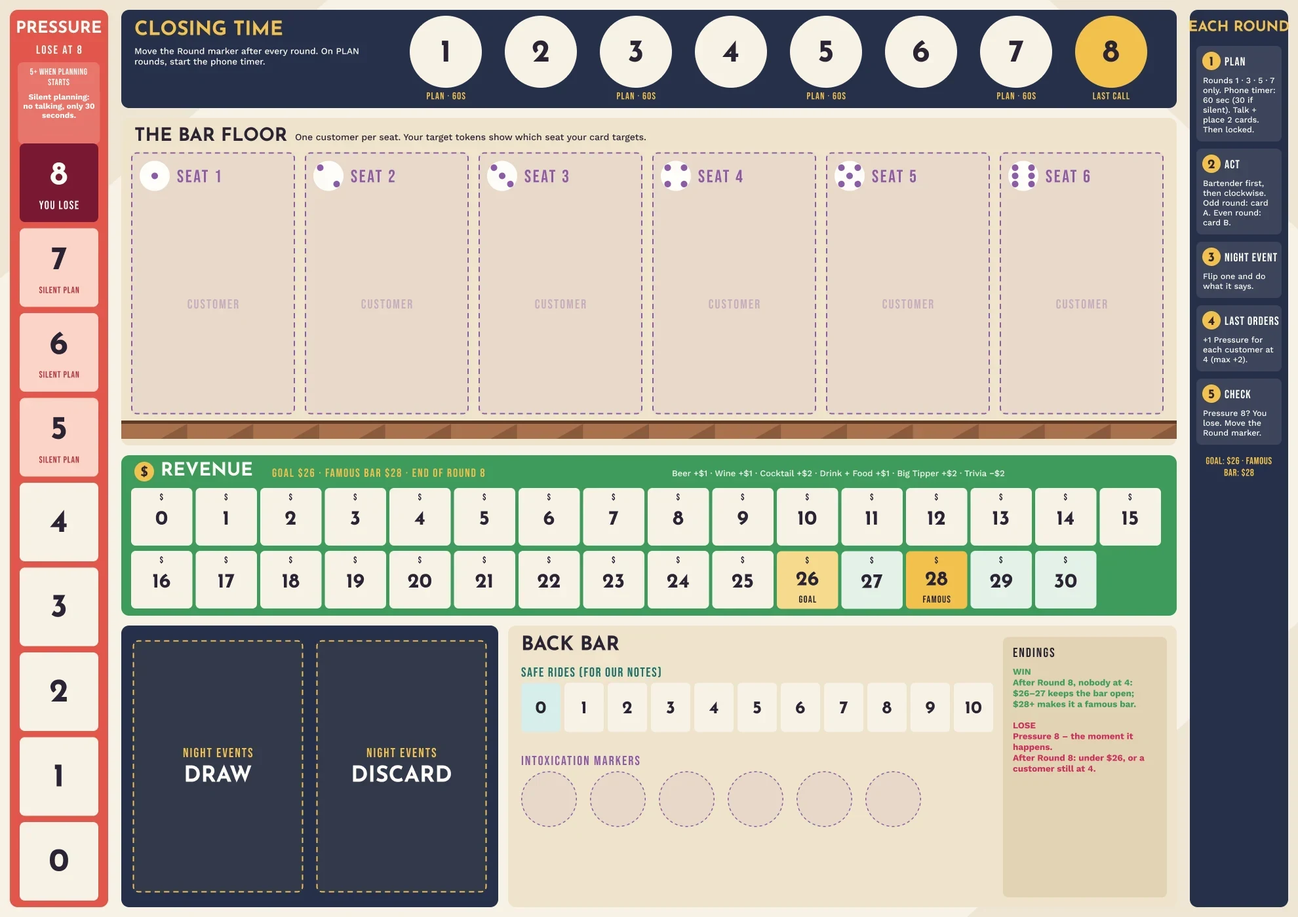
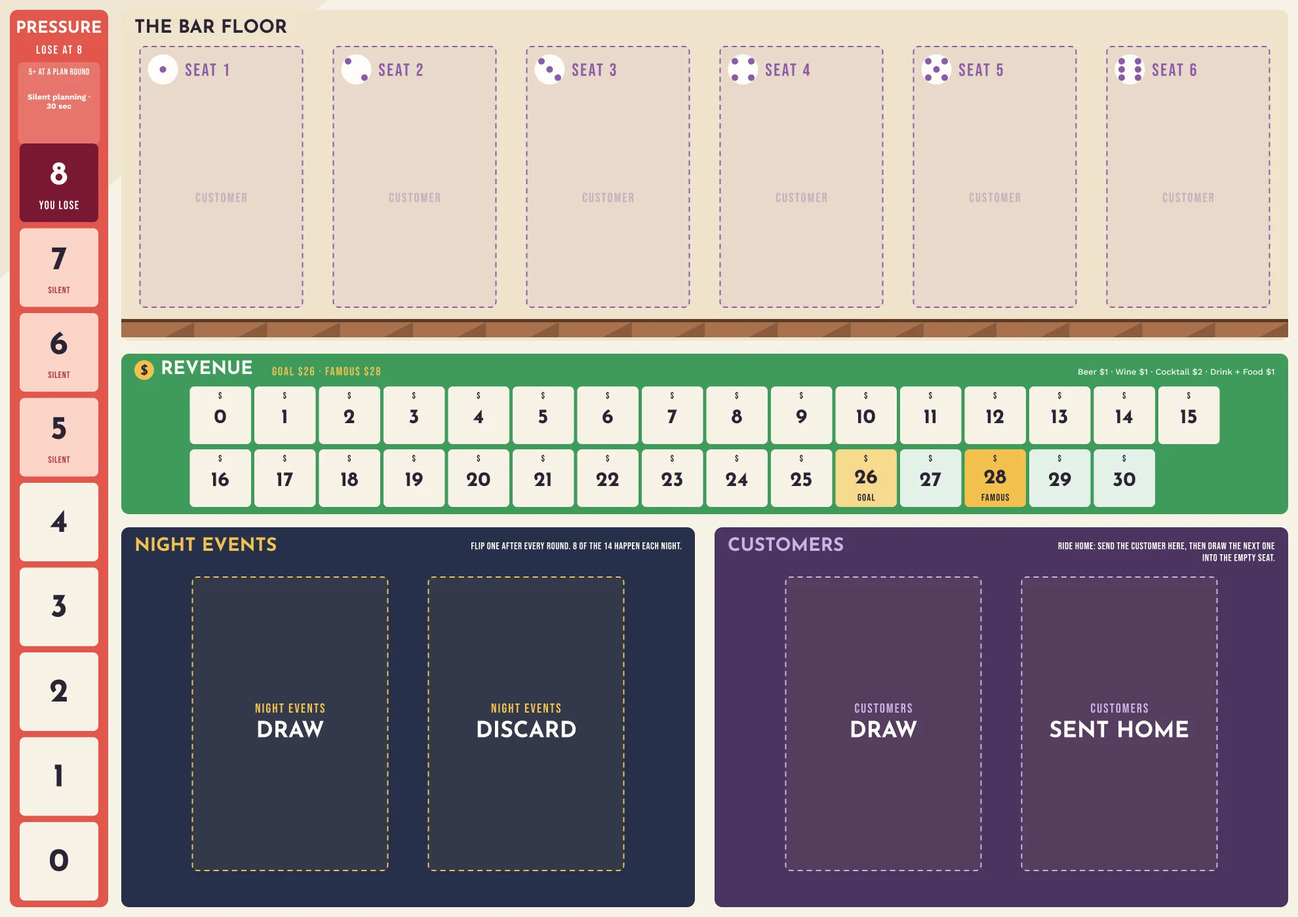
updates 1021

diff --git a/timer.html b/timer.html
@@ -1,0 +1,203 @@
+<!doctype html>
+<html lang="en">
+<head>
+<meta charset="utf-8">
+<meta name="viewport" content="width=device-width,initial-scale=1,viewport-fit=cover">
+<title>Last Call Table Timer</title>
+<link rel="preconnect" href="https://fonts.googleapis.com">
+<link rel="stylesheet" href="https://fonts.googleapis.com/css2?family=Bebas+Neue&family=Josefin+Sans:wght@600;700&family=Work+Sans:wght@400;500;600;700&display=swap">
+<style>
+/* The table's round tracker and talk timer: one phone in the middle of the table replaces the printed round track. */
+:root{
+  --night:#1b2033; --panel:#252d45; --panel-2:#2f3955; --line:#3d4868;
+  --cream:#f7f1e6; --ink:#2a2433; --muted:#a9b0c6; --text:#f3eee4;
+  --gold:#f2c14e; --pressure:#e2574c; --money:#3e9b5c; --plum:#8c5ba8;
+  --r-bar:#e2574c; --r-ser:#2fa59a; --r-bou:#e8a83a; --r-man:#5c6bc0;
+  --f-display:'Josefin Sans',system-ui,sans-serif; --f-body:'Work Sans',system-ui,sans-serif; --f-label:'Bebas Neue','Arial Narrow',sans-serif;
+  color-scheme:dark;
+}
+*{box-sizing:border-box}
+[hidden]{display:none!important}
+html,body{background:var(--night);color:var(--text);margin:0}
+body{font-family:var(--f-body);font-size:15px;line-height:1.45;padding:0 max(16px,env(safe-area-inset-right,0px)) 40px max(16px,env(safe-area-inset-left,0px))}
+button{font:inherit;cursor:pointer;border:0;border-radius:12px}
+button:focus-visible,a:focus-visible{outline:3px solid var(--gold);outline-offset:2px}
+.lbl{font-family:var(--f-label);letter-spacing:.08em;font-size:15px;color:var(--muted)}
+h1,h2{font-family:var(--f-display);margin:0}
+.top{position:sticky;top:0;z-index:5;background:var(--night);display:flex;flex-wrap:wrap;align-items:center;gap:10px 18px;padding:10px 0;border-bottom:1px solid var(--line)}
+.brand{font-family:var(--f-display);font-size:22px;letter-spacing:.04em;color:var(--gold)}
+.brand small{font-family:var(--f-label);color:var(--muted);font-size:15px;letter-spacing:.1em;margin-left:6px}
+.tabs{display:flex;gap:4px;background:var(--panel);padding:3px;border-radius:10px}
+.tabs a{color:var(--muted);text-decoration:none;font-weight:600;font-size:14px;padding:6px 12px;border-radius:8px}
+.tabs a[aria-current]{background:var(--gold);color:var(--ink)}
+main{max-width:760px;margin:18px auto 0;display:grid;gap:14px}
+.panel{background:var(--panel);border-radius:16px;padding:16px}
+.rounds{display:grid;grid-template-columns:repeat(8,1fr);gap:6px}
+.rounds button{aspect-ratio:1;border-radius:50%;background:var(--cream);color:var(--ink);font-family:var(--f-display);font-size:clamp(16px,4.5vw,28px);font-weight:700;position:relative;display:grid;place-items:center;padding:0}
+.rounds button.done{opacity:.4}
+.rounds button[aria-current="step"]{background:var(--gold);box-shadow:0 0 0 3px var(--night),0 0 0 6px var(--gold)}
+.rounds small{position:absolute;bottom:-20px;left:50%;transform:translateX(-50%);font-family:var(--f-label);font-size:clamp(10px,2.6vw,13px);letter-spacing:.06em;color:var(--gold);white-space:nowrap}
+.rounds-wrap{padding-bottom:26px}
+.phase{display:flex;align-items:baseline;justify-content:space-between;gap:10px;flex-wrap:wrap}
+.clock{font-family:var(--f-display);font-weight:700;font-variant-numeric:tabular-nums;font-size:clamp(84px,24vw,160px);line-height:1;text-align:center;margin:10px 0 6px;letter-spacing:.02em}
+.clock.hot{color:var(--pressure)}
+.clock.over{color:var(--pressure);animation:pulse 1s ease-in-out infinite}
+@keyframes pulse{50%{opacity:.35}}
+.bar{height:8px;background:var(--panel-2);border-radius:4px;overflow:hidden}
+.bar i{display:block;height:100%;background:var(--gold);transition:width .25s linear}
+.row{display:flex;gap:10px;flex-wrap:wrap;align-items:center;justify-content:center;margin-top:14px}
+.btn{background:var(--gold);color:var(--ink);font-weight:700;padding:14px 22px;font-size:18px;min-width:140px}
+.btn.ghost{background:transparent;color:var(--text);border:1.5px solid var(--line)}
+.btn.small{padding:8px 12px;font-size:14px;min-width:0}
+.silent{display:flex;align-items:center;gap:10px;justify-content:center;margin-top:12px;color:var(--muted)}
+.silent input{width:22px;height:22px;accent-color:var(--pressure)}
+.banner{background:#4a2330;border:1px solid #7a3446;color:#ffd9d2;border-radius:10px;padding:10px 12px;margin-top:10px;text-align:center}
+ol.steps{list-style:none;margin:10px 0 0;padding:0;display:grid;gap:8px}
+ol.steps li button{width:100%;text-align:left;display:grid;grid-template-columns:34px 1fr;gap:10px;align-items:start;background:var(--panel-2);color:var(--text);padding:10px 12px}
+ol.steps .n{width:28px;height:28px;border-radius:50%;background:var(--gold);color:var(--ink);font-weight:700;display:grid;place-items:center;font-size:14px}
+ol.steps b{font-family:var(--f-label);letter-spacing:.06em;font-size:18px;font-weight:400;display:block}
+ol.steps span.t{color:var(--muted);font-size:14px}
+ol.steps li.done button{opacity:.45}
+ol.steps li.done .n{background:var(--money);color:#fff}
+.order{display:flex;gap:6px;flex-wrap:wrap;margin-top:4px}
+.order span{font-size:12px;font-weight:700;color:#fff;padding:2px 8px;border-radius:999px}
+.end{text-align:center}
+.end .tiers{display:grid;grid-template-columns:repeat(3,1fr);gap:8px;margin-top:10px}
+.end .tiers div{background:var(--panel-2);border-radius:10px;padding:10px}
+.end .tiers b{display:block;font-family:var(--f-display);font-size:22px}
+.note{color:var(--muted);font-size:13px;text-align:center}
+@media (prefers-reduced-motion:reduce){.clock.over{animation:none}}
+</style>
+</head>
+<body>
+<header class="top">
+  <div class="brand">LAST CALL <small>PLAYTEST · ITERATION 5</small></div>
+  <nav class="tabs" aria-label="Playtest pages"><a href="./">Online game</a><a href="timer.html" aria-current="page">Table timer</a></nav>
+</header>
+<main>
+  <section class="panel rounds-wrap" aria-label="Round tracker">
+    <div class="phase"><span class="lbl">ROUND TRACK · TAP TO JUMP</span><button class="btn ghost small" id="newNight">New night</button></div>
+    <div class="rounds" id="rounds" style="margin-top:10px"></div>
+  </section>
+
+  <section class="panel" id="timerPanel" aria-live="polite">
+    <div class="phase"><h2 id="phaseTitle">Round 1 · Plan</h2><span class="lbl" id="phaseSub">TALK + PLACE 2 CARDS</span></div>
+    <div class="clock" id="clock">1:00</div>
+    <div class="bar"><i id="barFill" style="width:100%"></i></div>
+    <label class="silent" id="silentRow"><input type="checkbox" id="silent"> Pressure is 5 or more → silent planning (30 sec, no talking)</label>
+    <div class="banner" id="silentBanner" hidden>Silent planning: no talking, no pointing.</div>
+    <div class="row">
+      <button class="btn" id="startBtn">Start</button>
+      <button class="btn ghost" id="resetBtn">Reset</button>
+    </div>
+    <p class="note" id="lockNote">When time is up, cards and written seats are locked.</p>
+  </section>
+
+  <section class="panel" aria-label="This round">
+    <span class="lbl">THIS ROUND · TAP A STEP WHEN IT'S DONE</span>
+    <ol class="steps" id="steps"></ol>
+    <div class="row"><button class="btn ghost" id="prevBtn">Back</button><button class="btn" id="nextBtn">Next round</button></div>
+  </section>
+
+  <section class="panel end" id="endPanel" hidden>
+    <h2>Closing time</h2>
+    <p class="note">Nobody may be at Intoxication 4. Then check Revenue:</p>
+    <div class="tiers"><div><b>Under $26</b>The bar loses money</div><div><b>$26–27</b>The bar keeps going</div><div><b>$28+</b>Famous bar!</div></div>
+  </section>
+</main>
+<script>
+(() => {
+  const $ = id => document.getElementById(id);
+  const ROLE = [['Bartender', 'var(--r-bar)'], ['Server', 'var(--r-ser)'], ['Bouncer', 'var(--r-bou)'], ['Manager', 'var(--r-man)']];
+  const store = { get(k, d) { try { const v = localStorage.getItem('lct_' + k); return v == null ? d : JSON.parse(v); } catch (e) { return d; } }, set(k, v) { try { localStorage.setItem('lct_' + k, JSON.stringify(v)); } catch (e) {} } };
+  let round = store.get('round', 1), silent = store.get('silent', false), doneSteps = store.get('done', {});
+  let total = 60, left = 60, running = false, endAt = 0, tickH = null, beeped10 = false;
+
+  const odd = () => round % 2 === 1;
+  function steps() {
+    const order = `<div class="order">${ROLE.map(([n, c]) => `<span style="background:${c}">${n}</span>`).join('')}</div>`;
+    const first = odd()
+      ? ['Plan', `Start the timer. ${silent ? 'No talking. ' : 'Talk, then '}place card A and card B and write their target seats. The Bouncer places card A only.`]
+      : ['Bouncer picks card B', 'Start the 30-second timer. The Bouncer looks at the room and places card B.'];
+    const list = [first,
+      ['Act', `Play card ${odd() ? 'A' : 'B'}, in this order:` + order],
+      ['Night Event', 'Flip one. Played Check the Forecast? The Manager looks at the top 2, picks one, puts the other at the bottom.'],
+      ['Last orders', '+1 Pressure for each customer at 4 (max +2). Happy Hour this round: +1 Pressure.'],
+      ['Check', odd() ? 'Pressure 8? You lose.' : 'Pressure 8? You lose. Discard played cards and wipe your seat boxes.']];
+    if (round === 8) list.push(['Closing time', 'Nobody at 4. Under $26 lose · $26–27 keep the bar · $28+ famous bar.']);
+    return list;
+  }
+  function renderRounds() {
+    const r = $('rounds'); r.innerHTML = '';
+    for (let i = 1; i <= 8; i++) {
+      const b = document.createElement('button'); b.textContent = i;
+      if (i < round) b.className = 'done'; if (i === round) b.setAttribute('aria-current', 'step');
+      b.setAttribute('aria-label', `Round ${i}${i % 2 ? ', planning round' : ''}`);
+      const s = document.createElement('small'); s.textContent = i % 2 ? 'PLAN' : ''; b.appendChild(s);
+      b.onclick = () => goRound(i); r.appendChild(b);
+    }
+  }
+  function renderSteps() {
+    const ol = $('steps'); ol.innerHTML = ''; const d = doneSteps[round] || {};
+    steps().forEach(([t, txt], i) => {
+      const li = document.createElement('li'); if (d[i]) li.className = 'done';
+      const b = document.createElement('button'); b.innerHTML = `<span class="n">${d[i] ? '✓' : i + 1}</span><span><b>${t}</b><span class="t">${txt}</span></span>`;
+      b.setAttribute('aria-pressed', !!d[i]);
+      b.onclick = () => { const cur = doneSteps[round] || (doneSteps[round] = {}); cur[i] = !cur[i]; store.set('done', doneSteps); renderSteps(); };
+      li.appendChild(b); ol.appendChild(li);
+    });
+    $('nextBtn').textContent = round === 8 ? 'Finish the night' : 'Next round';
+    $('prevBtn').disabled = round === 1;
+  }
+  function renderPhase() {
+    $('phaseTitle').textContent = `Round ${round} · ${odd() ? (silent ? 'Silent plan' : 'Plan') : 'Bouncer picks B'}`;
+    $('phaseSub').textContent = odd() ? (silent ? 'NO TALKING · 30 SEC' : 'TALK + PLACE 2 CARDS · 60 SEC') : 'BOUNCER ONLY · 30 SEC';
+    $('silentRow').hidden = !odd(); $('silent').checked = silent; $('silentBanner').hidden = !(odd() && silent);
+    $('lockNote').textContent = odd() ? 'When time is up, cards and written seats are locked.' : 'When time is up, the Bouncer\'s card B is locked.';
+  }
+  function durationFor() { return odd() ? (silent ? 30 : 60) : 30; }
+  function fmt(s) { s = Math.max(0, Math.ceil(s)); return `${Math.floor(s / 60)}:${String(s % 60).padStart(2, '0')}`; }
+  function drawClock() {
+    const c = $('clock'); c.textContent = fmt(left);
+    c.className = 'clock' + (left <= 0 ? ' over' : left <= 10 ? ' hot' : '');
+    $('barFill').style.width = Math.max(0, left / total * 100) + '%';
+    $('startBtn').textContent = running ? 'Pause' : (left <= 0 ? 'Restart' : left < total ? 'Resume' : 'Start');
+  }
+  function resetTimer() { stop(); total = left = durationFor(); beeped10 = false; drawClock(); }
+  function stop() { running = false; clearInterval(tickH); tickH = null; release(); }
+  function start() {
+    if (left <= 0) { left = total; beeped10 = false; }
+    running = true; endAt = Date.now() + left * 1000; unlockAudio(); keepAwake();
+    clearInterval(tickH); tickH = setInterval(tick, 200); drawClock();
+  }
+  function tick() {
+    left = (endAt - Date.now()) / 1000;
+    if (!beeped10 && left <= 10 && total > 10) { beeped10 = true; beep(660, 0.15); }
+    if (left <= 0) { left = 0; stop(); beep(440, 0.6); setTimeout(() => beep(440, 0.6), 700); try { navigator.vibrate && navigator.vibrate([300, 150, 300]); } catch (e) {} }
+    drawClock();
+  }
+  // sound
+  let ac = null;
+  function unlockAudio() { try { ac = ac || new (window.AudioContext || window.webkitAudioContext)(); if (ac.state === 'suspended') ac.resume(); } catch (e) {} }
+  function beep(f, d) { try { if (!ac) return; const o = ac.createOscillator(), g = ac.createGain(); o.frequency.value = f; o.type = 'sine'; g.gain.setValueAtTime(0.0001, ac.currentTime); g.gain.exponentialRampToValueAtTime(0.4, ac.currentTime + 0.02); g.gain.exponentialRampToValueAtTime(0.0001, ac.currentTime + d); o.connect(g).connect(ac.destination); o.start(); o.stop(ac.currentTime + d + 0.05); } catch (e) {} }
+  // keep the screen on while timing
+  let lock = null;
+  async function keepAwake() { try { if ('wakeLock' in navigator && !lock) { lock = await navigator.wakeLock.request('screen'); lock.addEventListener('release', () => { lock = null; }); } } catch (e) {} }
+  function release() { try { lock && lock.release(); } catch (e) {} lock = null; }
+
+  function goRound(r) { round = Math.min(8, Math.max(1, r)); store.set('round', round); if (!odd()) {} render(); resetTimer(); }
+  function render() { renderRounds(); renderPhase(); renderSteps(); $('endPanel').hidden = !(store.get('finished', false)); }
+
+  $('startBtn').onclick = () => running ? (stop(), drawClock()) : start();
+  $('resetBtn').onclick = resetTimer;
+  $('silent').onchange = e => { silent = e.target.checked; store.set('silent', silent); renderPhase(); renderSteps(); resetTimer(); };
+  $('nextBtn').onclick = () => { if (round === 8) { store.set('finished', true); render(); $('endPanel').scrollIntoView({ behavior: 'smooth' }); return; } silent = false; store.set('silent', false); goRound(round + 1); };
+  $('prevBtn').onclick = () => goRound(round - 1);
+  $('newNight').onclick = () => { doneSteps = {}; store.set('done', {}); store.set('finished', false); silent = false; store.set('silent', false); goRound(1); };
+  document.addEventListener('visibilitychange', () => { if (document.visibilityState === 'visible' && running) keepAwake(); });
+
+  render(); resetTimer();
+})();
+</script>
+</body>
+</html>

diff --git a/index.html b/index.html
@@ -42,6 +42,11 @@ h1,h2,h3{font-family:var(--f-display);margin:0;text-wrap:balance}
 .meter i.on{background:var(--pressure)}
 .meter i.skip{outline:1px solid #b0373e}
 .spacer{flex:1}
+.tabs{display:flex;gap:4px;background:var(--panel);padding:3px;border-radius:10px}
+.tabs a{color:var(--muted);text-decoration:none;font-weight:600;font-size:14px;padding:6px 12px;border-radius:8px}
+.tabs a[aria-current]{background:var(--gold);color:var(--ink)}
+.custcard .pen{position:absolute;width:5.2%;aspect-ratio:1;border-radius:50%;background:#1d1a24;transform:translate(-50%,-50%);transition:left .5s ease}
+.slotseat{position:absolute;transform:translate(-50%,-50%);font-family:var(--f-display);font-weight:700;font-size:clamp(14px,2.4vw,30px);color:#1d1a24;line-height:1}
 .timer{font-family:var(--f-display);font-size:26px;font-variant-numeric:tabular-nums;color:var(--gold);min-width:70px;text-align:right}
 .timer.hot{color:var(--pressure)}
 
@@ -164,7 +169,8 @@ details.rules summary{cursor:pointer;font-family:var(--f-label);letter-spacing:.
 
 
 <header class="top" id="top">
-  <div class="brand">LAST CALL <small>ONLINE PLAYTEST · ITERATION 5</small></div>
+  <div class="brand">LAST CALL <small>PLAYTEST · ITERATION 5</small></div>
+  <nav class="tabs" aria-label="Playtest pages"><a href="./" aria-current="page">Online game</a><a href="timer.html">Table timer</a></nav>
   <div class="spacer"></div>
   <div id="hud" hidden style="display:contents">
     <div class="stat"><span class="lbl">ROUND</span><b id="hRound">1/8</b></div>
@@ -180,7 +186,7 @@ details.rules summary{cursor:pointer;font-family:var(--f-label);letter-spacing:.
       <div>
         <span class="lbl">4-PLAYER CO-OP · 8 ROUNDS · RULES ITERATION 5</span>
         <h1>Last Call</h1>
-        <p>Play the mechanics together, each on your own device. No accounts needed: one person opens a table and shares the code. Cards, board and tokens are the real Figma art, and the rules run themselves.</p>
+        <p>Play the mechanics together, each on your own device. No accounts needed: one person opens a table and shares the code. Cards, board and mats are the real Figma art, and the rules run themselves.</p>
         <div id="lobbyStatus" class="note">Connecting to the table…</div>
         <div class="joinrow" id="joinRow" hidden>
           <input id="myName" class="name" maxlength="24" placeholder="Your name" aria-label="Your name" autocomplete="nickname">
@@ -190,7 +196,7 @@ details.rules summary{cursor:pointer;font-family:var(--f-label);letter-spacing:.
           <button class="btn ghost" id="btnJoin">Join</button>
         </div>
       </div>
-      <img src="img/board.webp" alt="The Last Call board" width="1980" height="1400">
+      <img src="img/board.webp?b=20261020-161816" alt="The Last Call board" width="1980" height="1400">
     </div>
     <div id="tableBox" class="panel" hidden>
       <div class="phase"><span class="lbl">TABLE CODE</span><span class="code" id="tCode"></span><span class="note">Share this code with the other three players.</span><div class="spacer"></div><button class="btn small ghost" id="btnLeave">Leave table</button></div>
@@ -204,7 +210,7 @@ details.rules summary{cursor:pointer;font-family:var(--f-label);letter-spacing:.
   <section id="game" hidden>
     <div class="game">
       <div style="display:grid;gap:14px;min-width:0">
-        <div class="boardwrap" id="board"><img class="bg" src="img/board.webp" alt="Board"></div>
+        <div class="boardwrap" id="board"><img class="bg" src="img/board.webp?b=20261020-161816" alt="Board"></div>
         <details class="rules">
           <summary>RULES REMINDER</summary>
           <div class="rulesgrid">
@@ -220,7 +226,7 @@ details.rules summary{cursor:pointer;font-family:var(--f-label);letter-spacing:.
               <li><b>Pressure 8</b>: you lose. After Round 8: nobody may be at 4. Under <b>$26</b> you lose, <b>$26–27</b> the bar keeps going, <b>$28+</b> the bar becomes famous.</li>
               <li>Bartender, Server and Manager powers work once every 2 rounds and apply automatically. 8 of the 14 Night Events happen each night.</li>
             </ul>
-            <img src="img/drinkmenu.webp" alt="Drink Menu reference card" width="315" height="440">
+            <img src="img/drinkmenu.webp?b=20261020-161816" alt="Drink Menu reference card" width="315" height="440">
           </div>
         </details>
       </div>
@@ -336,7 +342,7 @@ function act(s, role, card, t, rnd) {
     let n = 2; const extra = [];
     if (role === 'man' && !s.powers.man) { s.powers.man = true; n = 3; extra.push('Manager power −1'); }
     const old = s.P; s.P = Math.max(0, s.P - n); s.rides++; rnd.ride = true;
-    const gone = c.id; s.pool.push(gone); const nid = s.pool.shift(); s.cust[t] = { id: nid, ix: 0, dr: 0 };
+    const gone = c.id; s.pool.push(gone); s.lastSent = gone; const nid = s.pool.shift(); s.cust[t] = { id: nid, ix: 0, dr: 0 };
     return { ok: true, text: `Ride Home → ${who}: home safe. ${CUST[nid]} takes the seat. Pressure ${old}→${s.P}${extra.length ? ' (' + extra[0] + ')' : ''}.` };
   }
   if (card === 'cover') {
@@ -523,7 +529,7 @@ const ROLE_COLOR = { bar: 'var(--r-bar)', ser: 'var(--r-ser)', bou: 'var(--r-bou
 const EV_IMG = { argument: 'ev_argument', rush: 'ev_rush', drive: 'ev_drive', spilled: 'ev_spilled', karaoke: 'ev_karaoke', inspection: 'ev_inspection', trivia: 'ev_trivia', tipper: 'ev_tipper', celebrity: 'ev_celebrity', critic: 'ev_critic', quiet: 'ev_quiet', bachelorette: 'ev_bachelorette', surge: 'ev_surge', gamenight: 'ev_gamenight' };
 const custImg = id => img('cust_' + (id + 1));
 const curStage = () => state && state.phase === 'bplan' ? 'B' + state.round : 'P';
-const img = k => `img/${k}.webp`;
+const img = k => `img/${k}.webp?b=${typeof BUILD === 'string' ? BUILD : ''}`;
 const cardImg = (role, c) => img(`${role}_${c}`);
 const W = 3960, H = 2800;
 const pct = (x, y) => ({ left: (x / W * 100) + '%', top: (y / H * 100) + '%' });
@@ -543,7 +549,7 @@ function status(msg, warn) { const s = $('lobbyStatus'); s.innerHTML = warn ? `<
 function myName() { return ($('myName').value || '').trim().slice(0, 24); }
 function newCode() { return Array.from({ length: 4 }, () => 'ABCDEFGHJKLMNPQRSTUVWXYZ'[Math.floor(Math.random() * 24)]).join(''); }
 
-const BUILD = '20261020-160539';
+const BUILD = '20261020-161816';
 // If the browser served an old cached copy, fetch the live page and reload once when it is newer.
 async function freshnessCheck() {
   try {
@@ -763,12 +769,12 @@ function renderBoard() {
   // customers
   state.cust.forEach((c0, i) => {
     const c = Object.assign({ id: i }, c0); // older hosts send no customer id: fall back to seat order
-    const x = 400 + i * 530 + 15, y = 465 + 125;
+    const x = 425 + i * 590 + 15, y = 140 + 125;
     const btn = el('button', 'custcard' + (hitSeats.has(i) && lastShownStep !== state.step ? ' hit' : ''));
     btn.style.left = (x / W * 100) + '%'; btn.style.top = (y / H * 100) + '%'; btn.style.width = (470 / W * 100) + '%';
     btn.setAttribute('aria-label', `Seat ${i + 1}: ${CUST[c.id]}, Intoxication ${c.ix}`);
     btn.innerHTML = `<img src="${custImg(c.id)}" alt="">`;
-    const mk = el('img', 'ix'); mk.src = img('mk_intox'); mk.alt = ''; mk.style.left = ((91 + 112 * c.ix) / 630 * 100) + '%'; mk.style.top = (684 / 880 * 100) + '%'; btn.appendChild(mk);
+    const mk = el('span', 'pen'); mk.style.left = ((91 + 112 * c.ix) / 630 * 100) + '%'; mk.style.top = (759 / 880 * 100) + '%'; btn.appendChild(mk);
     if (c.id === 4) btn.appendChild(el('span', 'drinks', `DRINKS ${c.dr}`));
     btn.onclick = () => openZoom(custImg(c.id));
     b.appendChild(btn);
@@ -783,19 +789,20 @@ function renderBoard() {
       if (p && p.t != null && TARGETED[p.c]) (bySeat[p.t] = bySeat[p.t] || []).push(r);
     }
     for (const [t, rs] of Object.entries(bySeat)) {
-      const box = el('div', 'seattoks'); place(box, 400 + (+t) * 530 + 300, 465 + 72);
+      const box = el('div', 'seattoks'); place(box, 425 + (+t) * 590 + 300, 140 + 72);
       rs.forEach(r => { const i = el('img'); i.src = img(`tok_${r}_${+t + 1}`); i.alt = ROLE_NAME[r]; box.appendChild(i); }); b.appendChild(box);
     }
   }
   // markers
   const tok = (k, x, y, d, label) => { const i = el('img', 'ov tok'); i.src = img(k); i.alt = label; place(i, x, y, d); b.appendChild(i); };
   const P = Math.min(8, state.P); tok('mk_pressure', 180, 2770 - 20 - 240 - P * 259 + 120, 170, `Pressure ${state.P}`);
-  const rv = Math.min(30, state.rev), row = rv <= 15 ? 0 : 1, ri = row ? rv - 16 : rv; tok('mk_revenue', 400 + ri * 197 + 93, 1490 + row * 192 + 88, 130, `Revenue $${state.rev}`);
-  tok('mk_round', 1250 + (state.round - 1) * 290 + 175, 225, 100, `Round ${state.round}`);
-  tok('mk_rides', 1590 + Math.min(10, state.rides) * 132 + 60, 2160, 104, `Safe rides ${state.rides}`);
+  const rv = Math.min(30, state.rev), row = rv <= 15 ? 0 : 1, ri = row ? rv - 16 : rv; tok('mk_revenue', 579 + ri * 197 + 93, 1180 + row * 192 + 88, 130, `Revenue $${state.rev}`);
   // night events
-  if (state.evIdx < 8) { const d = el('img', 'evcard'); d.src = img('back_night'); d.alt = 'Night Event deck'; place(d, 425, 1980, 480); d.style.transform = 'none'; b.appendChild(d); }
-  if (state.evIdx > 0) { const k = state.deck[state.evIdx - 1]; const d = el('img', 'evcard'); d.src = img(EV_IMG[k]); d.alt = EVENT_NAME[k]; place(d, 985, 1980, 480); d.style.transform = 'none'; d.style.cursor = 'zoom-in'; d.style.pointerEvents = 'auto'; d.onclick = () => openZoom(d.src); b.appendChild(d); }
+  const pile = (src, alt, x, zoom) => { const d = el('img', 'evcard'); d.src = src; d.alt = alt; place(d, x, 1875, 480); d.style.transform = 'none'; if (zoom) { d.style.cursor = 'zoom-in'; d.style.pointerEvents = 'auto'; d.onclick = () => openZoom(src); } b.appendChild(d); return d; };
+  pile(img('back_cust'), 'Customer deck', 2455);
+  if (state.lastSent != null) pile(custImg(state.lastSent), 'Sent home: ' + CUST[state.lastSent], 3175, true);
+  if (state.evIdx < 8) { const d = el('img', 'evcard'); d.src = img('back_night'); d.alt = 'Night Event deck'; place(d, 645, 1875, 480); d.style.transform = 'none'; b.appendChild(d); }
+  if (state.evIdx > 0) { const k = state.deck[state.evIdx - 1]; const d = el('img', 'evcard'); d.src = img(EV_IMG[k]); d.alt = EVENT_NAME[k]; place(d, 1365, 1875, 480); d.style.transform = 'none'; d.style.cursor = 'zoom-in'; d.style.pointerEvents = 'auto'; d.onclick = () => openZoom(d.src); b.appendChild(d); }
 }
 
 function renderPhase() {
@@ -876,8 +883,8 @@ function renderMine() {
     s.onclick = () => { if (planning && lock && lock !== k) { if (v) openZoom(cardImg(role, v.c)); return; } if (planning && !(activeSlot !== k || !v)) openZoom(cardImg(role, v.c)); else if (planning) { activeSlot = k; render(); } else if (v) openZoom(cardImg(role, v.c)); };
     mat.appendChild(s);
     if (planning && lock === 'A' && k === 'B') { const n = el('span', 'slotname', 'LIVE PICK'); n.style.left = ((x + 157) / 1485 * 100) + '%'; n.style.top = (420 / 1050 * 100) + '%'; mat.appendChild(n); }
-    if (v && v.t != null && TARGETED[v.c]) { const t = el('img', 'slottok'); t.src = img(`tok_${role}_${v.t + 1}`); t.alt = `Seat ${v.t + 1}`; t.style.left = ((x + 157) / 1485 * 100) + '%'; t.style.top = (695 / 1050 * 100) + '%'; mat.appendChild(t); }
-    if (v) { const n = el('span', 'slotname', `${CARD_NAME[v.c].toUpperCase()}${v.t != null && TARGETED[v.c] ? ' → ' + (v.t + 1) : ''}`); n.style.left = ((x + 157) / 1485 * 100) + '%'; n.style.top = (640 / 1050 * 100) + '%'; mat.appendChild(n); }
+    if (v && v.t != null && TARGETED[v.c]) { const t = el('span', 'slotseat', String(v.t + 1)); t.setAttribute('aria-label', `Seat ${v.t + 1}`); t.style.left = ((x + 157) / 1485 * 100) + '%'; t.style.top = (695 / 1050 * 100) + '%'; mat.appendChild(t); }
+    if (v) { const n = el('span', 'slotname', `${CARD_NAME[v.c].toUpperCase()}${v.t != null && TARGETED[v.c] ? ' → ' + (v.t + 1) : ''}`); n.style.left = ((x + 157) / 1485 * 100) + '%'; n.style.top = (590 / 1050 * 100) + '%'; mat.appendChild(n); }
   }
   box.appendChild(mat);
   if (!planning) { box.appendChild(el('div', 'note', state.phase === 'reveal' ? 'Your locked cards for this cycle.' : state.phase === 'bplan' ? 'Your card B is locked. The Bouncer is choosing theirs.' : state.phase === 'forecast' ? (role === 'man' ? 'Pick a Night Event above.' : 'Waiting for the Manager.') : ''));
